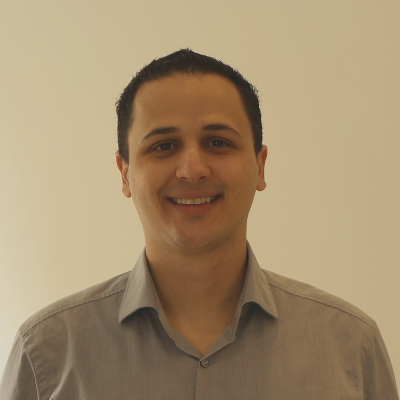
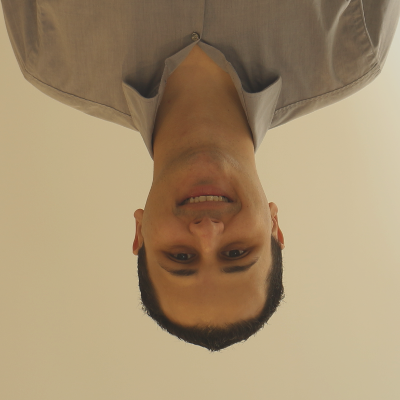
Fix Nits and pic fix

diff --git a/_layouts/post.html b/_layouts/post.html
@@ -39,6 +39,7 @@ layout: default
 
   <div id="post">{{ content }}</div>      
 
+ {% if page.commentIssueId %}
   <hr/>
   <div id="comments">
     <h2>Comments</h2>
@@ -46,6 +47,7 @@ layout: default
      Want to leave a comment? Visit <a href="https://github.com/anstack/anstack.github.io/issues/{{page.commentIssueId}}"> this post's issue page on GitHub</a> (you'll need a GitHub account. What? Like you already don't have one?!).
     </div>
   </div>
+ {% endif %}
 
   {% unless page.skip_footer %}
     <hr class="fin"/>

diff --git a/_includes/footer.html b/_includes/footer.html
@@ -1,16 +1,19 @@
 <footer>
+  {% unless page.skip_bio %}
+
   <div id="bio">
     <div id="bio-image">
       <img src="/static/me.jpg" alt="Carlos Camacho">
     </div>
     
     <div id="bio-text">
-      <p>Hi, I'm <b>Carlos Camacho</b>.</p>
+      <p>Why it is my picture upside down? Sometimes is good to see everything with a different perspective.</p>
       <div id="bio-social">
         {% include social.html %}
       </div>
     </div>
   </div>
+  {% endunless %}
 
   {% unless page.skip_related %}
   <aside>

diff --git a/_includes/comments.html b/_includes/comments.html
@@ -1,6 +1,6 @@
+{% if page.commentIssueId %}
 <script type="text/javascript">
   function loadComments(data) {
-    console.log(data)
     for (var i=0; i<data.length; i++) {
       var cuser = data[i].user.login;
       var cuserlink = "https://www.github.com/" + data[i].user.login;
@@ -19,4 +19,6 @@
    }
   });
 </script>
+
+{% endif %}
 

diff --git a/_posts/2016-07-04-manually-installing-tripleo-recipe.md b/_posts/2016-07-04-manually-installing-tripleo-recipe.md
@@ -1,6 +1,6 @@
 ---
 layout: post
-title: "Deploying manually TripleO 'master' branch"
+title: "TripleO manual deployment of 'master' branch"
 categories:
   - blog
 tags:

diff --git a/archive/index.md b/archive/index.md
@@ -2,6 +2,7 @@
 layout: post
 title: Archives
 skip_related: true
+skip_bio: true
 ---
 
 {% assign totalwords = 0 %}
